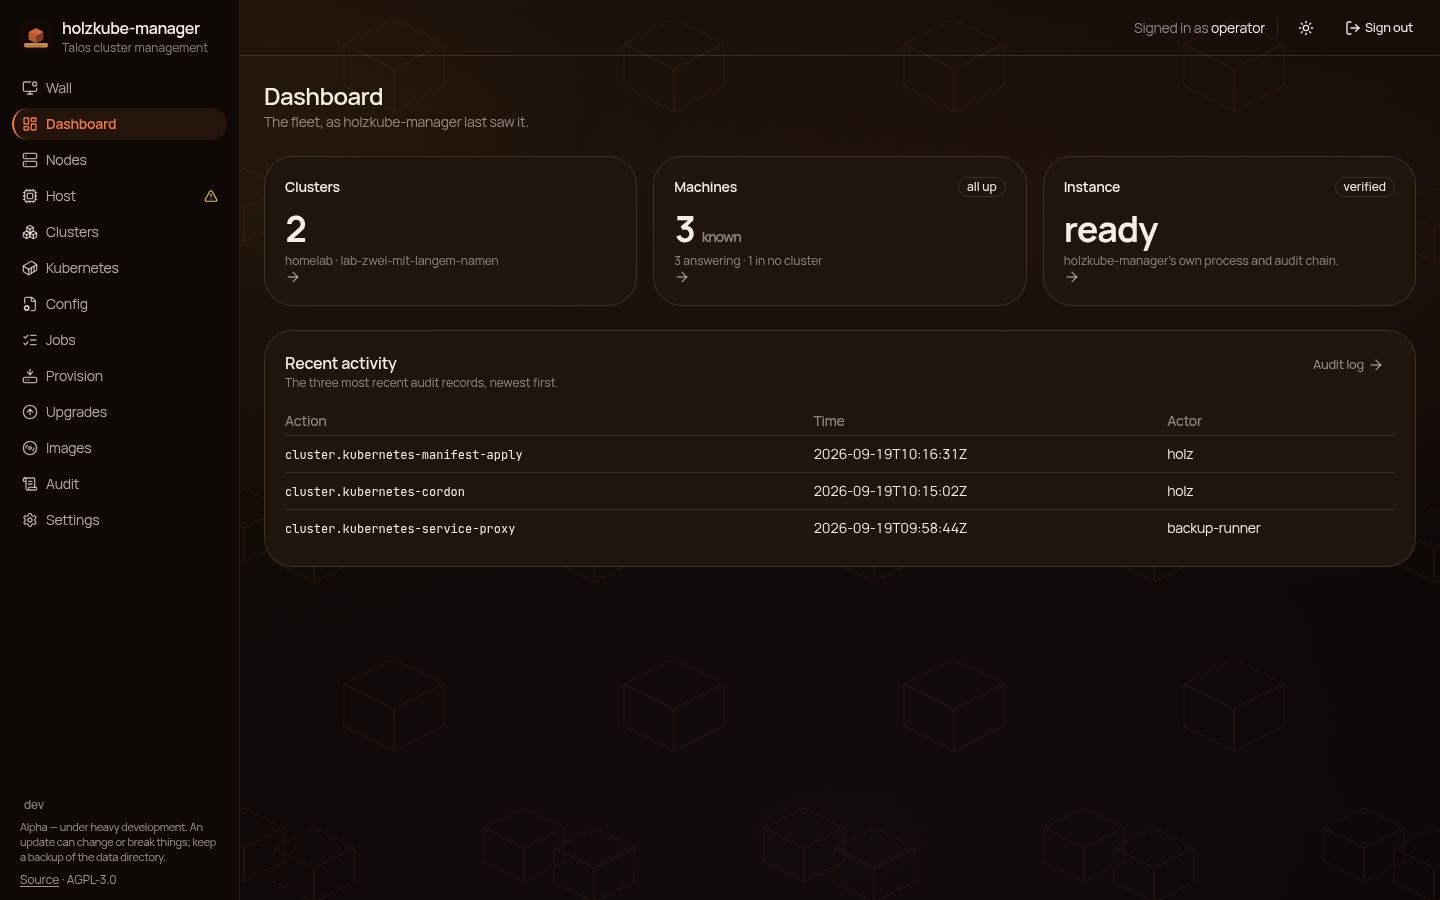
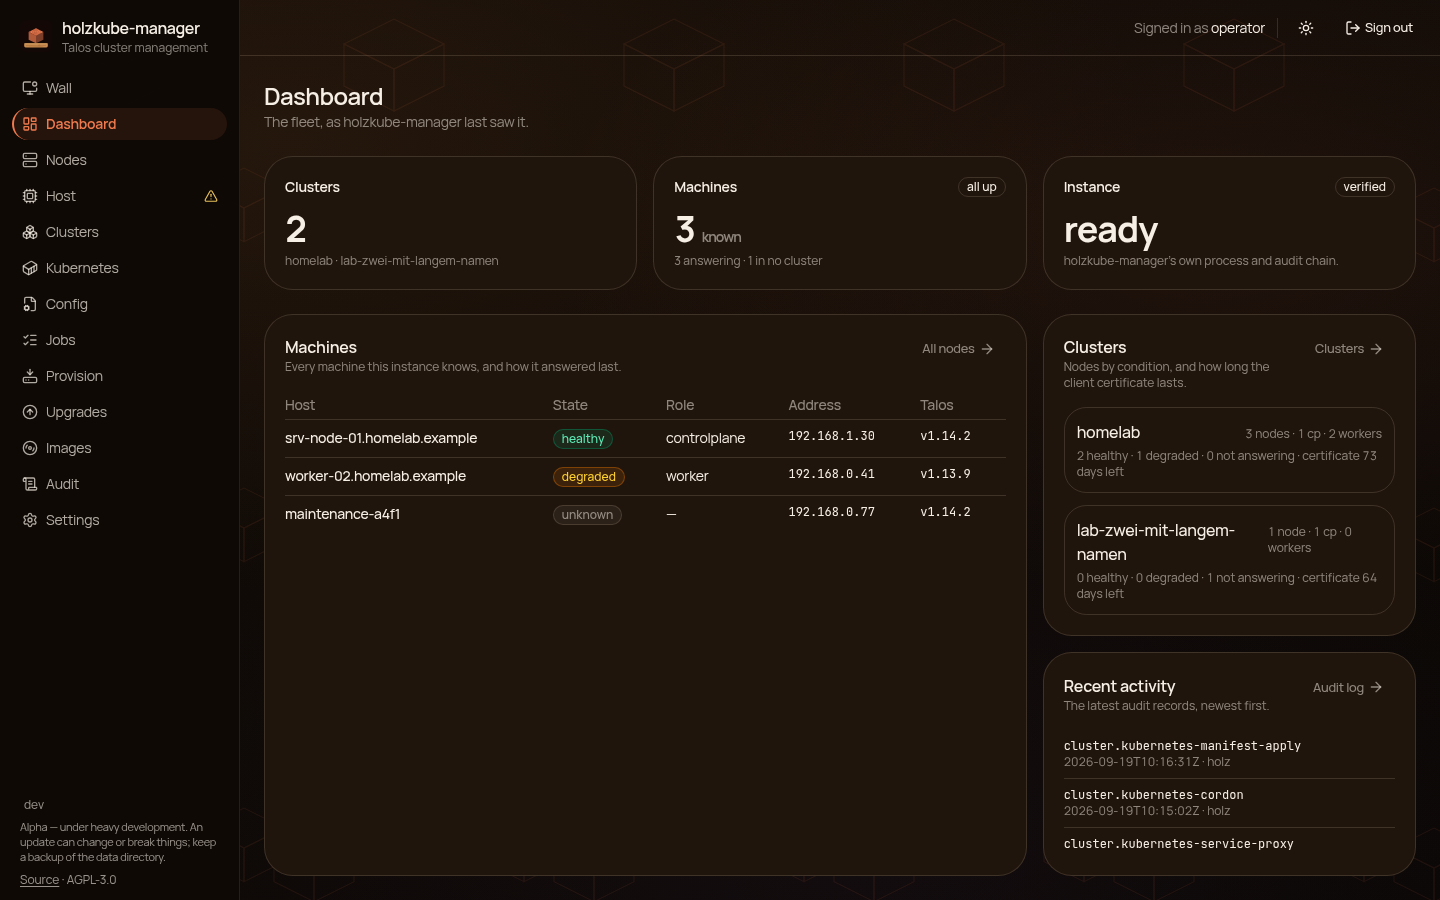
Dashboard fills the screen: machines, clusters and activity beside the fact cards
Claude-Session: https://claude.ai/code/session_01NtRnCYXbriV4BjszEhUnec

diff --git a/web/src/routes/index.tsx b/web/src/routes/index.tsx
@@ -3,6 +3,7 @@ import { createRoute, Link } from '@tanstack/react-router'
 import { ArrowRight } from 'lucide-react'
 import { api } from '@/api'
 import { DataTable } from '@/components/DataTable'
+import { HealthField, StageBadge } from '@/components/HealthField'
 import { Badge } from '@/components/ui/badge'
 import { Button } from '@/components/ui/button'
 import { Skeleton } from '@/components/ui/skeleton'
@@ -70,11 +71,47 @@ function MetricCard({
         {unit && <span className="ml-1.5 text-sm font-semibold text-muted-foreground">{unit}</span>}
       </p>
       <p className="mt-1 text-xs break-words text-muted-foreground">{detail}</p>
-      <ArrowRight
-        aria-hidden="true"
-        className="mt-auto size-4 pt-0 text-muted-foreground transition-transform group-hover:translate-x-0.5"
-      />
     </Link>
+  )
+}
+
+/** A titled panel that fills the height it is given and scrolls inside itself. */
+function Panel({
+  title,
+  hint,
+  to,
+  toLabel,
+  className,
+  children,
+}: {
+  title: string
+  hint: string
+  to: string
+  toLabel: string
+  className?: string
+  children: React.ReactNode
+}) {
+  return (
+    <section
+      className={cn(
+        'flex min-h-0 flex-col rounded-2xl border border-border bg-card p-5',
+        className,
+      )}
+    >
+      <div className="flex items-baseline justify-between gap-2">
+        <div>
+          <h2 className="font-heading text-base font-semibold">{title}</h2>
+          <p className="text-xs text-muted-foreground">{hint}</p>
+        </div>
+        <Button asChild variant="ghost" size="sm" className="text-muted-foreground">
+          <Link to={to}>
+            {toLabel}
+            <ArrowRight aria-hidden="true" className="size-4" />
+          </Link>
+        </Button>
+      </div>
+      <div className="mt-4 min-h-0 flex-1 overflow-auto">{children}</div>
+    </section>
   )
 }
 
@@ -92,7 +129,7 @@ function Dashboard() {
   })
   const recent = useQuery({
     queryKey: ['audit', 'recent'],
-    queryFn: () => api.audit({ limit: 3 }),
+    queryFn: () => api.audit({ limit: 8 }),
   })
 
   const fleet = machines.data ?? []
@@ -103,7 +140,7 @@ function Dashboard() {
   const down = fleetByCondition('down')
 
   return (
-    <div className="space-y-6">
+    <div className="flex min-h-0 flex-col gap-6 lg:h-full">
       <div>
         <h1 className="font-heading text-2xl font-semibold tracking-tight">Dashboard</h1>
         <p className="text-sm text-muted-foreground">The fleet, as holzkube-manager last saw it.</p>
@@ -154,55 +191,118 @@ function Dashboard() {
         />
       </div>
 
-      <div className="rounded-2xl border border-border bg-card p-5">
-        <div className="flex items-baseline justify-between gap-2">
-          <div>
-            <h2 className="font-heading text-base font-semibold">Recent activity</h2>
-            <p className="text-xs text-muted-foreground">
-              The three most recent audit records, newest first.
-            </p>
-          </div>
-          <Button asChild variant="ghost" size="sm" className="text-muted-foreground">
-            <Link to="/audit">
-              Audit log
-              <ArrowRight aria-hidden="true" className="size-4" />
-            </Link>
-          </Button>
-        </div>
-        {recent.isPending && <Skeleton className="mt-4 h-16 w-full" />}
-        {recent.isSuccess && recent.data.items.length === 0 && (
-          <p className="mt-4 text-sm text-muted-foreground">Nothing has been recorded yet.</p>
-        )}
-        {recent.isSuccess && recent.data.items.length > 0 && (
-          <div className="mt-4">
+      {/* The rest of the screen: the machines take two thirds and the
+          clusters and the latest records share the third. Each panel scrolls
+          inside itself, so a long fleet never pushes the others off screen. */}
+      <div className="grid min-h-0 flex-1 gap-4 lg:grid-cols-3">
+        <Panel
+          title="Machines"
+          hint="Every machine this instance knows, and how it answered last."
+          to="/nodes"
+          toLabel="All nodes"
+          className="lg:col-span-2"
+        >
+          {machines.isPending && <Skeleton className="h-24 w-full" />}
+          {machines.isSuccess && (
             <DataTable
-              label="Recent activity"
+              label="Machines"
               phone="rows"
-              rows={recent.data.items.slice(0, 3)}
-              keyOf={(record) => String(record.seq)}
-              empty="Nothing has been recorded yet."
+              rows={fleet}
+              keyOf={(m) => m.id}
+              empty="No machines yet."
               columns={[
                 {
-                  key: 'action',
-                  label: 'Action',
+                  key: 'host',
+                  label: 'Host',
                   role: 'identity',
-                  render: (record) => <span className="font-mono text-xs">{record.action}</span>,
+                  className: 'font-medium',
+                  render: (m) => (
+                    <Link
+                      to="/nodes/$uuid"
+                      params={{ uuid: m.id }}
+                      className="inline-flex items-center hover:underline max-md:min-h-11"
+                    >
+                      <HealthField field={m.hostname} render={(v) => v || m.id.slice(0, 8)} />
+                    </Link>
+                  ),
                 },
                 {
-                  key: 'ts',
-                  label: 'Time',
-                  className: 'tabular-nums',
-                  render: (record) => <span className="tabular-nums">{record.ts}</span>,
+                  key: 'state',
+                  label: 'State',
+                  render: (m) => <StageBadge stage={m.stage} />,
+                },
+                { key: 'role', label: 'Role', render: (m) => m.role || '—' },
+                {
+                  key: 'addr',
+                  label: 'Address',
+                  className: 'font-mono text-xs',
+                  render: (m) => <HealthField field={m.addr} />,
                 },
                 {
-                  key: 'actor',
-                  label: 'Actor',
-                  render: (record) => (record.actor === '' ? '—' : record.actor),
+                  key: 'talos',
+                  label: 'Talos',
+                  className: 'font-mono text-xs',
+                  render: (m) => <HealthField field={m.talos_version} />,
                 },
               ]}
             />
-          </div>
-        )}
+          )}
+        </Panel>
+
+        <div className="flex min-h-0 flex-col gap-4">
+          <Panel
+            title="Clusters"
+            hint="Nodes by condition, and how long the client certificate lasts."
+            to="/clusters"
+            toLabel="Clusters"
+          >
+            {clusters.isSuccess && clusters.data.length === 0 && (
+              <p className="text-sm text-muted-foreground">None imported yet.</p>
+            )}
+            <ul className="space-y-3">
+              {(clusters.data ?? []).map((c) => (
+                <li key={c.id} className="rounded-xl border border-border p-3">
+                  <div className="flex items-baseline justify-between gap-2">
+                    <span className="font-medium">{c.name}</span>
+                    <span className="text-xs text-muted-foreground tabular-nums">
+                      {c.nodes} {c.nodes === 1 ? 'node' : 'nodes'} · {c.control_plane} cp ·{' '}
+                      {c.workers} {c.workers === 1 ? 'worker' : 'workers'}
+                    </span>
+                  </div>
+                  <p className="mt-1 text-xs text-muted-foreground tabular-nums">
+                    {c.healthy} healthy · {c.degraded} degraded · {c.down} not answering ·
+                    certificate {c.client_cert_days_left} days left
+                  </p>
+                </li>
+              ))}
+            </ul>
+          </Panel>
+
+          <Panel
+            title="Recent activity"
+            hint="The latest audit records, newest first."
+            to="/audit"
+            toLabel="Audit log"
+            className="flex-1"
+          >
+            {recent.isPending && <Skeleton className="h-16 w-full" />}
+            {recent.isSuccess && recent.data.items.length === 0 && (
+              <p className="text-sm text-muted-foreground">Nothing has been recorded yet.</p>
+            )}
+            {recent.isSuccess && recent.data.items.length > 0 && (
+              <ul className="divide-y divide-border">
+                {recent.data.items.map((record) => (
+                  <li key={record.seq} className="py-2">
+                    <p className="truncate font-mono text-xs">{record.action}</p>
+                    <p className="text-xs text-muted-foreground tabular-nums">
+                      {record.ts} · {record.actor === '' ? '—' : record.actor}
+                    </p>
+                  </li>
+                ))}
+              </ul>
+            )}
+          </Panel>
+        </div>
       </div>
     </div>
   )
